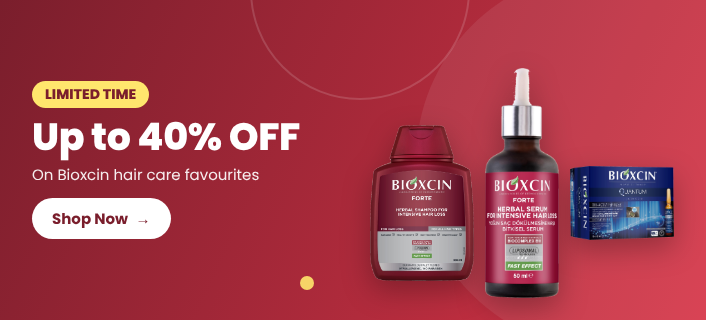
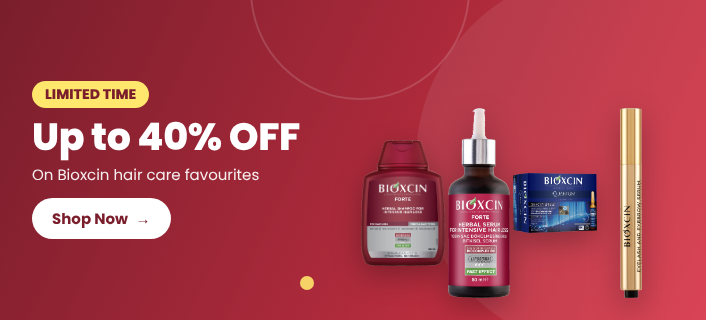
Show all offer products in every size; burgundy theme for offer 2
Claude-Session: https://claude.ai/code/session_01MejyVmSq2aYVYmituLqweB

Changed region(s): [[0.4986, 0.2188, 0.966, 0.9688]]

diff --git a/banners/banners.css b/banners/banners.css
@@ -181,3 +181,39 @@ img.logo { object-fit: contain; }
 /* keep headlines and names from leaving a single orphan word */
 .headline, .sub, .product-name { text-wrap: balance; }
 .mobile-vertical-hero[dir="rtl"] .headline { font-size: 72px; }
+
+/* ---------- 4 products: mobile hero & slim ---------- */
+.mobile-hero.n4 .copy { flex-basis: 320px; }
+.mobile-hero.n4 .product-media { width: 84px; height: 190px; }
+.mobile-hero.n4 .product + .product { margin-inline-start: -8px; }
+.mobile-slim.n4 .products { gap: 2px; }
+.mobile-slim.n4 .product-media { width: 72px; height: 150px; }
+
+/* ---------- 5-8 products: two rows of four ---------- */
+.mobile-hero.many .copy { flex-basis: 300px; }
+.mobile-hero.many .headline { font-size: 34px; }
+.mobile-hero.many .products {
+  display: grid; grid-template-columns: repeat(4, 1fr); grid-auto-rows: 128px;
+  align-content: center; gap: 8px 4px; padding: 0;
+}
+.mobile-hero.many .product { height: 100%; }
+.mobile-hero.many .product + .product { margin: 0; }
+.mobile-hero.many .product-media { width: 100%; height: 100%; }
+
+.mobile-slim.many { gap: 16px; padding: 0 28px; }
+.mobile-slim.many .headline { font-size: 30px; }
+.mobile-slim.many .products {
+  display: grid; grid-template-columns: repeat(4, 76px); grid-auto-rows: 82px;
+  align-content: center; gap: 6px; padding: 0;
+}
+.mobile-slim.many .product { height: 100%; }
+.mobile-slim.many .product-media { width: 100%; height: 100%; }
+
+/* ---------- 7-8 products: desktop ---------- */
+.desktop-hero.n7, .desktop-hero.n8 { gap: 20px; padding: 0 60px; }
+.desktop-hero.n7 .copy, .desktop-hero.n8 .copy { flex-basis: 400px; }
+.desktop-hero.n7 .headline, .desktop-hero.n8 .headline { font-size: 44px; }
+.desktop-hero.n7 .products, .desktop-hero.n8 .products { gap: 8px; padding: 30px 0; }
+.desktop-hero.n7 .product, .desktop-hero.n8 .product { width: 100px; }
+.desktop-hero.n7 .product-media, .desktop-hero.n8 .product-media { width: 96px; height: 220px; }
+.desktop-hero.n7 .product-name, .desktop-hero.n8 .product-name { display: none; }

diff --git a/banners/offers.js b/banners/offers.js
@@ -41,7 +41,7 @@ const OFFERS = [
  },
   {
     id: "offer-2",
-    theme: { from: "#0a1a4f", to: "#1d4ed8", accent: "#ffd166", text: "#ffffff" },
+    theme: { from: "#3d0a17", to: "#800020", accent: "#e9c46a", text: "#ffffff" },
     badge: { en: "LIMITED TIME", ar: "لفترة محدودة" },
     headline: { en: "Buy 2 Get 2", ar: "اشترِ 2 واحصل على 2" },
     sub: { en: "On Bioxcin hair care favourites", ar: "على منتجات بيوكسين للعناية بالشعر" },
@@ -75,12 +75,12 @@ const OFFERS = [
   },
 ];
 
-// Banner slots from the upload screen. maxProducts = how many products fit.
+// Banner slots from the upload screen. maxProducts = max products shown (layouts handle 1-8).
 const SIZES = [
   { id: "mobile-vertical-hero", device: "mobile", label: "Vertical Hero Banner", w: 800, h: 1200, maxProducts: 8 },
-  { id: "mobile-hero", device: "mobile", label: "Hero Banner", w: 706, h: 320, maxProducts: 3 },
-  { id: "mobile-slim", device: "mobile", label: "Slim Banner", w: 800, h: 200, maxProducts: 3 },
-  { id: "desktop-hero", device: "desktop", label: "Hero Banner", w: 1440, h: 300, maxProducts: 6 },
+  { id: "mobile-hero", device: "mobile", label: "Hero Banner", w: 706, h: 320, maxProducts: 8 },
+  { id: "mobile-slim", device: "mobile", label: "Slim Banner", w: 800, h: 200, maxProducts: 8 },
+  { id: "desktop-hero", device: "desktop", label: "Hero Banner", w: 1440, h: 300, maxProducts: 8 },
 ];
 
 const LANGS = ["en", "ar"];

diff --git a/banners/banners.js b/banners/banners.js
@@ -56,7 +56,7 @@ function bannerHTML(offer, size, lang) {
   const showNames = size.id === "mobile-vertical-hero" || size.id === "desktop-hero";
   const code = offer.code?.[lang];
   return `
-    <div class="banner ${size.id} n${products.length}" dir="${lang === "ar" ? "rtl" : "ltr"}" lang="${lang}"
+    <div class="banner ${size.id} n${products.length}${products.length >= 5 ? " many" : ""}" dir="${lang === "ar" ? "rtl" : "ltr"}" lang="${lang}"
          data-file="${offer.id}/${size.device}-${lang}-${size.w}x${size.h}.png"
          style="width:${size.w}px;height:${size.h}px;--from:${t.from};--to:${t.to};--accent:${t.accent};--text:${t.text}">
       <div class="deco deco-1"></div><div class="deco deco-2"></div><div class="deco deco-3"></div>
